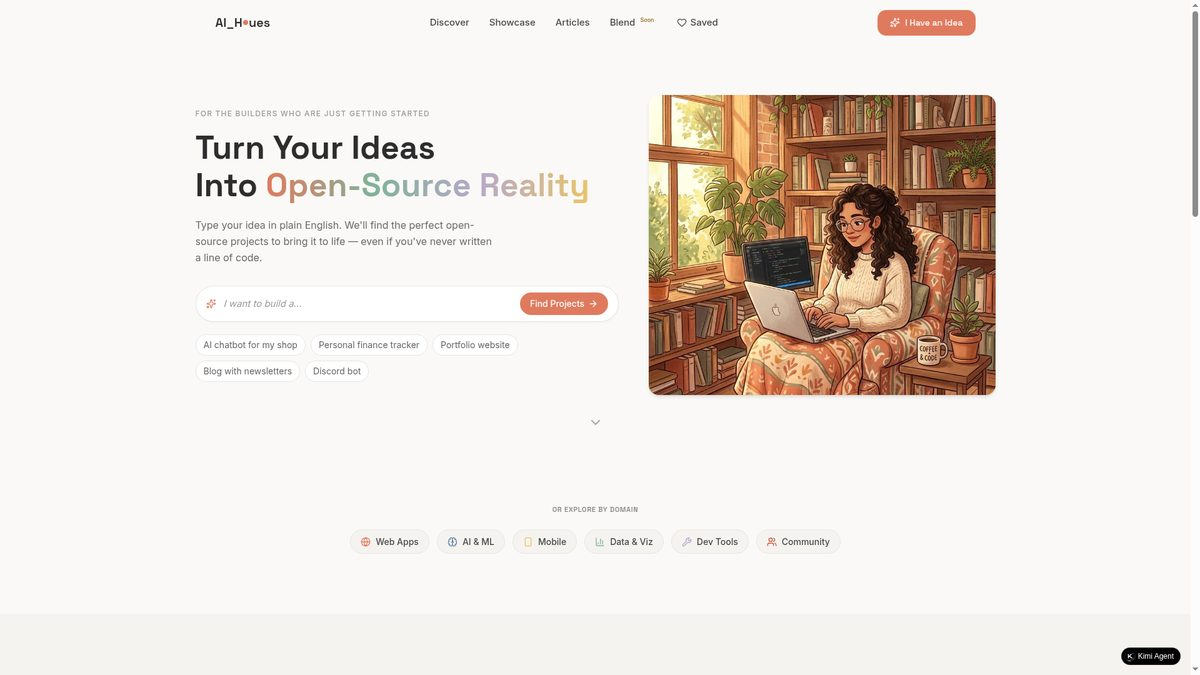
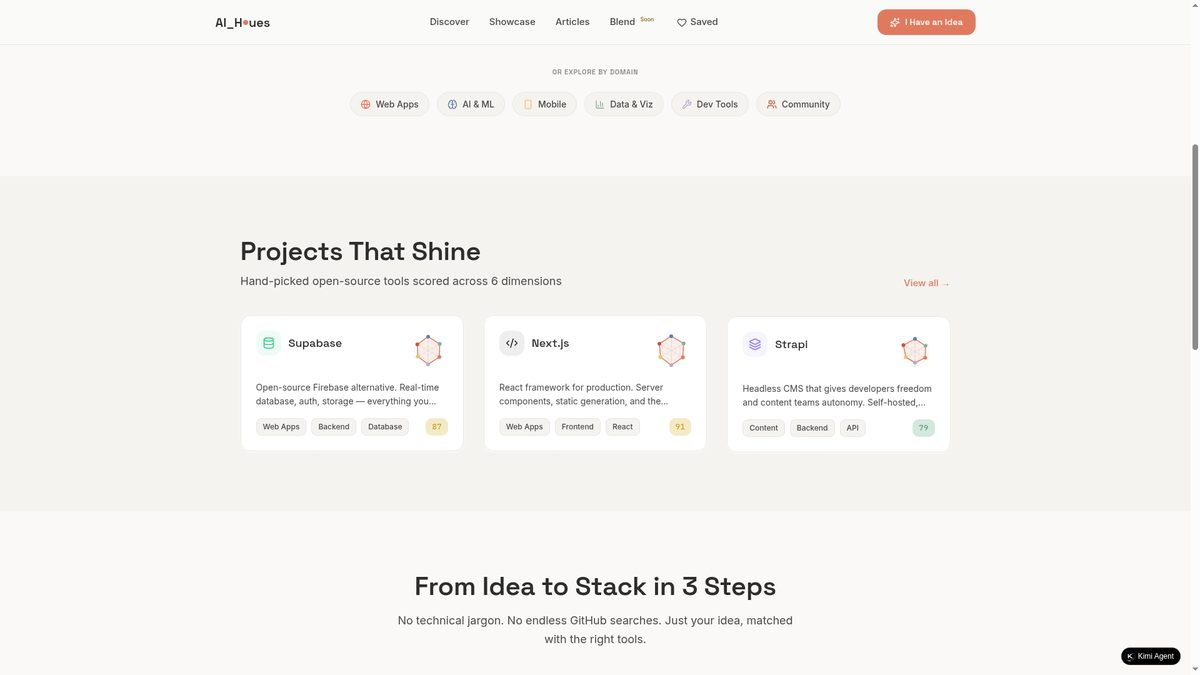
🚀 deploy: 修复封面图路径 + AI Hues 新封面

diff --git a/404.html b/404.html
@@ -8,8 +8,8 @@
     <link rel="preconnect" href="https://fonts.gstatic.com" crossorigin />
     <link href="https://fonts.googleapis.com/css2?family=Noto+Sans+SC:wght@400;500;700&family=Noto+Serif+SC:wght@600;700&family=Space+Grotesk:wght@400;500;700&display=swap" rel="stylesheet" />
     <title>羽羊 Vastra · Ad Vastra 个人星系</title>
-    <script type="module" crossorigin src="/vastra-galaxy/assets/main-DFIE2VLe.js"></script>
-    <link rel="modulepreload" crossorigin href="/vastra-galaxy/assets/Admin-7Ii5SPXx.js">
+    <script type="module" crossorigin src="/vastra-galaxy/assets/main-Dp0qC9ik.js"></script>
+    <link rel="modulepreload" crossorigin href="/vastra-galaxy/assets/Admin-CeORAp0W.js">
     <link rel="stylesheet" crossorigin href="/vastra-galaxy/assets/Admin-BgqDwqwO.css">
   </head>
   <body>

diff --git a/admin.html b/admin.html
@@ -8,8 +8,8 @@
     <link rel="preconnect" href="https://fonts.gstatic.com" crossorigin />
     <link href="https://fonts.googleapis.com/css2?family=Noto+Sans+SC:wght@400;500;700&family=Noto+Serif+SC:wght@600;700&family=Space+Grotesk:wght@400;500;700&display=swap" rel="stylesheet" />
     <title>管理舱 · 羽羊 Vastra</title>
-    <script type="module" crossorigin src="/vastra-galaxy/assets/admin-seJBt1eJ.js"></script>
-    <link rel="modulepreload" crossorigin href="/vastra-galaxy/assets/Admin-7Ii5SPXx.js">
+    <script type="module" crossorigin src="/vastra-galaxy/assets/admin-D1JX_P1P.js"></script>
+    <link rel="modulepreload" crossorigin href="/vastra-galaxy/assets/Admin-CeORAp0W.js">
     <link rel="stylesheet" crossorigin href="/vastra-galaxy/assets/Admin-BgqDwqwO.css">
   </head>
   <body>

diff --git a/admin/index.html b/admin/index.html
@@ -8,8 +8,8 @@
     <link rel="preconnect" href="https://fonts.gstatic.com" crossorigin />
     <link href="https://fonts.googleapis.com/css2?family=Noto+Sans+SC:wght@400;500;700&family=Noto+Serif+SC:wght@600;700&family=Space+Grotesk:wght@400;500;700&display=swap" rel="stylesheet" />
     <title>管理舱 · 羽羊 Vastra</title>
-    <script type="module" crossorigin src="/vastra-galaxy/assets/admin-seJBt1eJ.js"></script>
-    <link rel="modulepreload" crossorigin href="/vastra-galaxy/assets/Admin-7Ii5SPXx.js">
+    <script type="module" crossorigin src="/vastra-galaxy/assets/admin-D1JX_P1P.js"></script>
+    <link rel="modulepreload" crossorigin href="/vastra-galaxy/assets/Admin-CeORAp0W.js">
     <link rel="stylesheet" crossorigin href="/vastra-galaxy/assets/Admin-BgqDwqwO.css">
   </head>
   <body>

diff --git a/index.html b/index.html
@@ -8,8 +8,8 @@
     <link rel="preconnect" href="https://fonts.gstatic.com" crossorigin />
     <link href="https://fonts.googleapis.com/css2?family=Noto+Sans+SC:wght@400;500;700&family=Noto+Serif+SC:wght@600;700&family=Space+Grotesk:wght@400;500;700&display=swap" rel="stylesheet" />
     <title>羽羊 Vastra · Ad Vastra 个人星系</title>
-    <script type="module" crossorigin src="/vastra-galaxy/assets/main-DFIE2VLe.js"></script>
-    <link rel="modulepreload" crossorigin href="/vastra-galaxy/assets/Admin-7Ii5SPXx.js">
+    <script type="module" crossorigin src="/vastra-galaxy/assets/main-Dp0qC9ik.js"></script>
+    <link rel="modulepreload" crossorigin href="/vastra-galaxy/assets/Admin-CeORAp0W.js">
     <link rel="stylesheet" crossorigin href="/vastra-galaxy/assets/Admin-BgqDwqwO.css">
   </head>
   <body>

diff --git a/assets/admin-D1JX_P1P.js b/assets/admin-D1JX_P1P.js
@@ -1,0 +1,1 @@
+import{e as t,j as a,r as e,B as s,R as r,b as n,d as o}from"./Admin-CeORAp0W.js";t.createRoot(document.getElementById("root")).render(a.jsx(e.StrictMode,{"code-path":"src/main-admin.tsx:8:3",children:a.jsx(s,{"code-path":"src/main-admin.tsx:9:5",basename:"/vastra-galaxy/",children:a.jsx(r,{"code-path":"src/main-admin.tsx:10:7",children:a.jsx(n,{"code-path":"src/main-admin.tsx:11:9",path:"*",element:a.jsx(o,{"code-path":"src/main-admin.tsx:11:34"})})})})}));